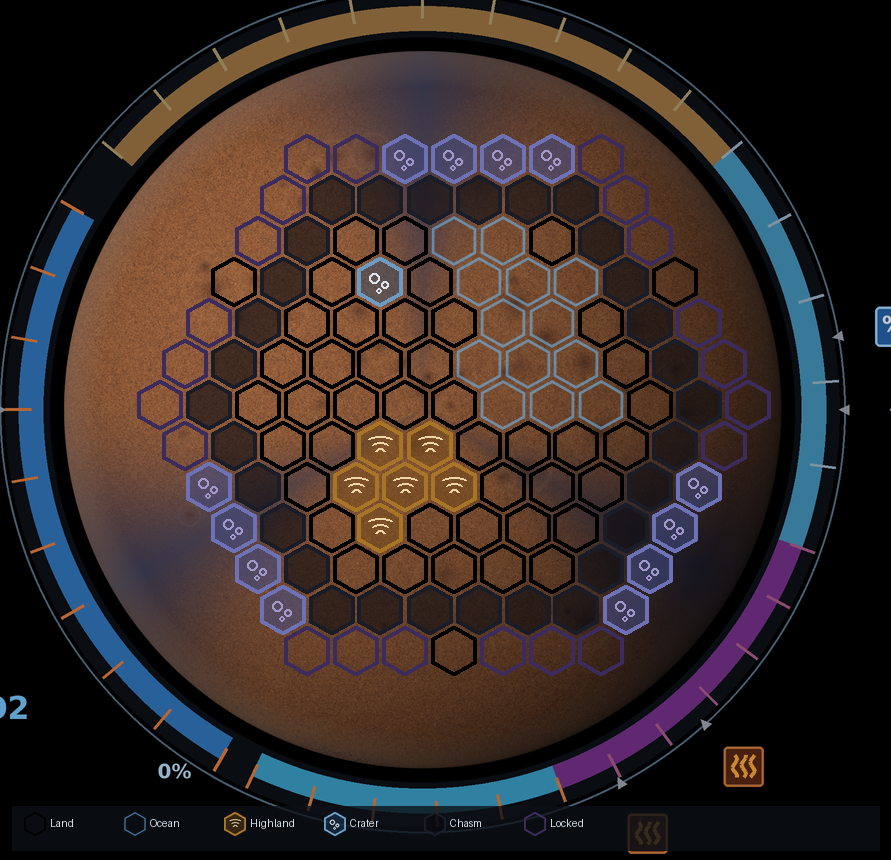
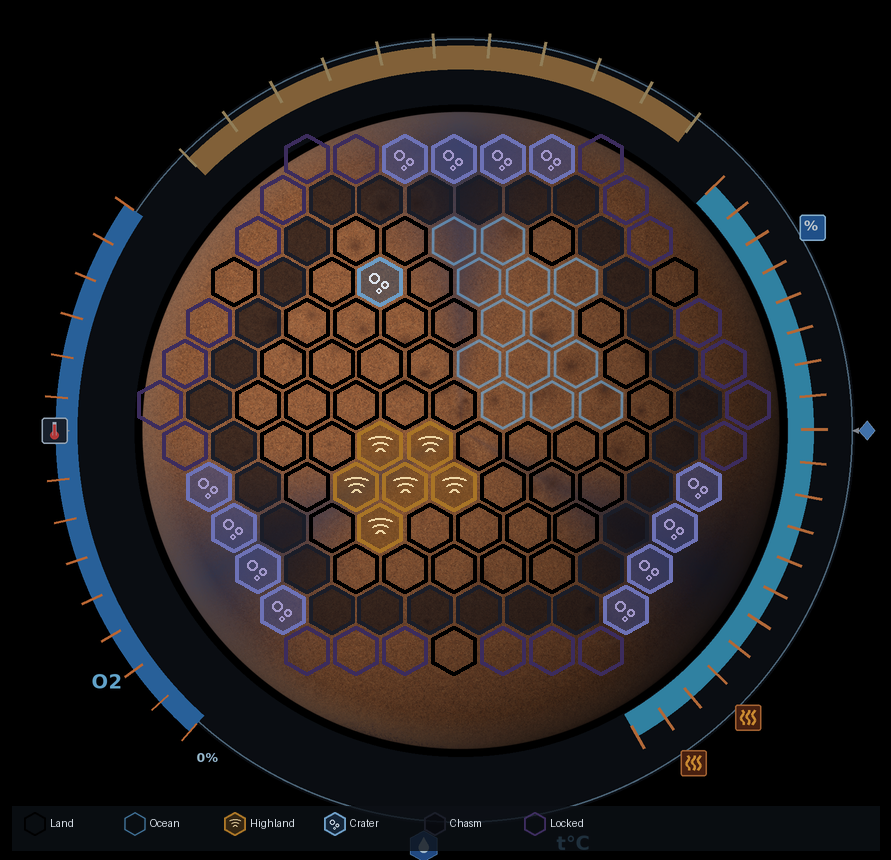
fix(consortium): calibrate generative board to hex + HTML pin frame
Lock DISC_* to the scaled mars.png silhouette (centre ~461,431 / r~320
logical) so the generative planet sits under all 127 hexes. Retarget chrome
arcs to measured O2 / temp / Venus pin angles and radii from globs.less so
HTML track overlays land on painted tracks. Hex CSS/JSON unchanged.

diff --git a/tools/consortium-art/_board_chrome.py b/tools/consortium-art/_board_chrome.py
@@ -1,15 +1,37 @@
 """
 Crisp Consortium board chrome (tracks, labels, icons).
 
-Drawn at the output pixel size so O2 / t°C / arcs are sharp — the soft
-baked-in chrome from 620×600 mars.png is the main blur source.
-Hex / CSS coordinates are unchanged; this only paints under them.
+Arc angles and radii are calibrated to Tharsis HTML overlays in globs.less
+(scaled onto the Consortium board). Planet centre/radius come from the
+caller — they must match the REF silhouette so pins land on painted tracks.
 """
 
 from __future__ import annotations
 
 import math
-from PIL import Image, ImageDraw, ImageFont
+from PIL import Image, ImageChops, ImageDraw, ImageFont
+
+# Logical calibration (891×860). Ratios scale with planet_r.
+# Angles are PIL/screen: 0° = east, increasing CCW with y-down.
+_CAL_PLANET_R = 320.0
+_TRACKS = {
+    # O2 pins ~132–214° at r≈415 (slightly outside painted outer — track under pins).
+    'oxygen': {
+        'start': 132.0, 'end': 214.0, 'r_mid': 405.0, 'half': 11.0,
+        'segments': 14, 'fill': (50, 120, 190, 255), 'tick': (255, 140, 70, 230),
+    },
+    # Venus / top sandy track.
+    'venus': {
+        'start': 225.0, 'end': 307.0, 'r_mid': 385.0, 'half': 12.0,
+        'segments': 10, 'fill': (160, 120, 70, 255), 'tick': (230, 200, 140, 200),
+    },
+    # Temperature pins ~316→60° (unwrap to 420) at r≈353 — closer to planet.
+    'temperature': {
+        'start': 316.0, 'end': 420.0, 'r_mid': 353.0, 'half': 13.0,
+        'segments': 19, 'fill': (60, 160, 200, 255), 'tick': (255, 150, 80, 220),
+    },
+}
+_OUTER_R = 392.0
 
 
 def _font(size: int) -> ImageFont.FreeTypeFont | ImageFont.ImageFont:
@@ -30,23 +52,19 @@ def _arc_bbox(cx: float, cy: float, r: float):
 
 
 def _polar(cx: float, cy: float, r: float, deg: float):
-    # Screen degrees: 0 = east, CCW (PIL arcs use this).
     rad = math.radians(deg)
     return cx + r * math.cos(rad), cy + r * math.sin(rad)
 
 
 def _draw_segmented_arc(draw: ImageDraw.ImageDraw, cx, cy, r_outer, r_inner,
                         start_deg, end_deg, fill, tick_rgb, segments: int):
-    """Annular arc wedge approximated as thick arc + ticks."""
-    # PIL arc uses 0° at 3 o'clock, increasing counter-clockwise.
+    """Annular arc. end_deg may be >360 to wrap past east."""
     width = max(1, int(round(r_outer - r_inner)))
     r_mid = (r_outer + r_inner) / 2.0
+    # PIL accepts end > 360.
     draw.arc(_arc_bbox(cx, cy, r_mid), start=start_deg, end=end_deg,
              fill=fill, width=width)
-    # Tick marks along the outer edge.
-    span = (end_deg - start_deg) % 360
-    if span == 0:
-        span = 360
+    span = end_deg - start_deg
     for i in range(segments + 1):
         a = start_deg + span * i / segments
         x0, y0 = _polar(cx, cy, r_inner + 1, a)
@@ -55,11 +73,11 @@ def _draw_segmented_arc(draw: ImageDraw.ImageDraw, cx, cy, r_outer, r_inner,
 
 
 def _hexagon(cx, cy, r):
-    pts = []
-    for i in range(6):
-        a = math.radians(60 * i - 30)
-        pts.append((cx + r * math.cos(a), cy + r * math.sin(a)))
-    return pts
+    return [
+        (cx + r * math.cos(math.radians(60 * i - 30)),
+         cy + r * math.sin(math.radians(60 * i - 30)))
+        for i in range(6)
+    ]
 
 
 def _draw_icon_thermometer(img: Image.Image, x: int, y: int, s: int):
@@ -67,7 +85,6 @@ def _draw_icon_thermometer(img: Image.Image, x: int, y: int, s: int):
     d.rounded_rectangle([x, y, x + s, y + s], radius=s * 0.12,
                         fill=(30, 40, 55, 255), outline=(180, 200, 220, 255),
                         width=max(1, s // 16))
-    # Bulb + stem.
     cx, cy = x + s * 0.5, y + s * 0.68
     d.ellipse([cx - s * 0.16, cy - s * 0.16, cx + s * 0.16, cy + s * 0.16],
               fill=(220, 70, 70, 255))
@@ -93,9 +110,8 @@ def _draw_icon_heat(img: Image.Image, x: int, y: int, s: int):
 
 def _draw_icon_water(img: Image.Image, x: int, y: int, s: int):
     d = ImageDraw.Draw(img)
-    pts = _hexagon(x + s / 2, y + s / 2, s * 0.48)
-    d.polygon(pts, fill=(40, 90, 160, 255), outline=(140, 200, 255, 255))
-    # Droplet.
+    d.polygon(_hexagon(x + s / 2, y + s / 2, s * 0.48),
+              fill=(40, 90, 160, 255), outline=(140, 200, 255, 255))
     cx, cy = x + s * 0.5, y + s * 0.42
     d.ellipse([cx - s * 0.16, cy - s * 0.05, cx + s * 0.16, cy + s * 0.28],
               fill=(200, 230, 255, 255))
@@ -107,13 +123,9 @@ def _draw_icon_crystal(img: Image.Image, x: int, y: int, s: int):
     d = ImageDraw.Draw(img)
     cx, cy = x + s / 2, y + s / 2
     d.polygon([
-        (cx, y + s * 0.12),
-        (x + s * 0.82, cy),
-        (cx, y + s * 0.88),
-        (x + s * 0.18, cy),
+        (cx, y + s * 0.12), (x + s * 0.82, cy),
+        (cx, y + s * 0.88), (x + s * 0.18, cy),
     ], fill=(80, 140, 210, 255), outline=(200, 230, 255, 255))
-    d.line([(cx, y + s * 0.12), (cx, y + s * 0.88)],
-           fill=(180, 220, 255, 200), width=max(1, s // 18))
 
 
 def _draw_icon_percent(img: Image.Image, x: int, y: int, s: int):
@@ -121,12 +133,11 @@ def _draw_icon_percent(img: Image.Image, x: int, y: int, s: int):
     d.rounded_rectangle([x, y, x + s, y + s], radius=s * 0.12,
                         fill=(40, 100, 170, 255), outline=(160, 210, 255, 255),
                         width=max(1, s // 14))
-    font = _font(max(10, int(s * 0.55)))
-    d.text((x + s * 0.18, y + s * 0.12), '%', font=font, fill=(240, 250, 255, 255))
+    d.text((x + s * 0.18, y + s * 0.12), '%',
+           font=_font(max(10, int(s * 0.55))), fill=(240, 250, 255, 255))
 
 
 def _draw_pointer(draw: ImageDraw.ImageDraw, ring_x, ring_y, outward_deg, size):
-    """Grey triangle on the outside of the ring, tip pointing inward."""
     tip = _polar(ring_x, ring_y, size * 0.1, outward_deg + 180)
     base1 = _polar(ring_x, ring_y, size, outward_deg - 28)
     base2 = _polar(ring_x, ring_y, size, outward_deg + 28)
@@ -135,98 +146,70 @@ def _draw_pointer(draw: ImageDraw.ImageDraw, ring_x, ring_y, outward_deg, size):
 
 def draw_chrome(base: Image.Image, cx: float, cy: float, planet_r: float) -> Image.Image:
     """
-    Paint Consortium chrome onto `base` (RGBA). Returns the same image.
+    Paint chrome onto `base` (RGBA).
 
-    Geometry is relative to the planet disc so it stays locked when the
-    canvas scale changes. HTML global-number overlays still use CSS.
+    `cx, cy, planet_r` must be the calibrated REF silhouette (same space as
+    the canvas). Track geometry is scaled from the 891×860 calibration.
     """
     img = base
-    d = ImageDraw.Draw(img)
-    # Ring radii (outside the planet).
-    r0 = planet_r + planet_r * 0.035   # gap
-    r1 = planet_r + planet_r * 0.085   # inner track
-    r2 = planet_r + planet_r * 0.155   # outer track
-    r3 = planet_r + planet_r * 0.175   # hairline
+    scale = planet_r / _CAL_PLANET_R
+    outer = _OUTER_R * scale
+    gap = planet_r + 6 * scale
 
-    # Hairline outer ring.
-    d.ellipse(_arc_bbox(cx, cy, r3), outline=(120, 160, 190, 180),
-              width=max(1, int(planet_r * 0.006)))
-
-    # Dark ring plate under tracks.
+    # Dark ring plate between planet and outer chrome.
     ring = Image.new('RGBA', img.size, (0, 0, 0, 0))
     rd = ImageDraw.Draw(ring)
-    rd.ellipse(_arc_bbox(cx, cy, r2 + 2), fill=(12, 16, 22, 230))
-    rd.ellipse(_arc_bbox(cx, cy, r0 - 1), fill=(0, 0, 0, 0))
-    # Cut hole with planet+gap.
+    rd.ellipse(_arc_bbox(cx, cy, outer + 2 * scale), fill=(12, 16, 22, 235))
     mask = Image.new('L', img.size, 0)
-    ImageDraw.Draw(mask).ellipse(_arc_bbox(cx, cy, r2 + 2), fill=255)
+    ImageDraw.Draw(mask).ellipse(_arc_bbox(cx, cy, outer + 2 * scale), fill=255)
     hole = Image.new('L', img.size, 0)
-    ImageDraw.Draw(hole).ellipse(_arc_bbox(cx, cy, r0 - 1), fill=255)
-    from PIL import ImageChops
-    mask = ImageChops.subtract(mask, hole)
-    ring.putalpha(mask)
+    ImageDraw.Draw(hole).ellipse(_arc_bbox(cx, cy, gap), fill=255)
+    ring.putalpha(ImageChops.subtract(mask, hole))
     img.alpha_composite(ring)
 
     d = ImageDraw.Draw(img)
+    d.ellipse(_arc_bbox(cx, cy, outer), outline=(120, 160, 190, 200),
+              width=max(1, int(2 * scale)))
 
-    # Track arcs — angles chosen to match Tharsis chrome layout roughly.
-    # PIL: 0° = 3 o'clock, CCW.
-    # O2 track (lower-left): ~120° to ~210°
-    _draw_segmented_arc(d, cx, cy, r2, r1, 120, 210,
-                        fill=(50, 120, 190, 255), tick_rgb=(255, 140, 70, 230),
-                        segments=9)
-    # Top sandy/venus-ish track: ~220° to ~320°
-    _draw_segmented_arc(d, cx, cy, r2, r1, 220, 320,
-                        fill=(160, 120, 70, 255), tick_rgb=(230, 200, 140, 200),
-                        segments=10)
-    # Upper-right % track: ~320° to ~20°
-    _draw_segmented_arc(d, cx, cy, r2, r1, 320, 20,
-                        fill=(70, 150, 190, 255), tick_rgb=(200, 230, 255, 200),
-                        segments=5)
-    # Right purple track: ~20° to ~70°
-    _draw_segmented_arc(d, cx, cy, r2, r1, 20, 70,
-                        fill=(120, 50, 140, 255), tick_rgb=(220, 120, 180, 200),
-                        segments=6)
-    # Temperature track (lower-right): ~70° to ~115°
-    _draw_segmented_arc(d, cx, cy, r2, r1, 70, 115,
-                        fill=(60, 160, 200, 255), tick_rgb=(255, 150, 80, 220),
-                        segments=5)
+    for tr in _TRACKS.values():
+        r_mid = tr['r_mid'] * scale
+        half = tr['half'] * scale
+        _draw_segmented_arc(
+            d, cx, cy, r_mid + half, r_mid - half,
+            tr['start'], tr['end'],
+            fill=tr['fill'], tick_rgb=tr['tick'], segments=tr['segments'])
 
-    # Scale factor vs a ~251px source disc radius.
-    s = planet_r / 251.05
-    icon = max(22, int(round(28 * s)))
+    icon = max(20, int(round(26 * scale)))
+    s = scale
 
-    # Icons around the ring (outward).
-    def place(deg, drawer, radial=1.12):
-        rx, ry = _polar(cx, cy, r2 + 2, deg)
+    def place(deg, drawer, r_frac=1.0):
+        rr = outer * r_frac
+        rx, ry = _polar(cx, cy, rr, deg)
         _draw_pointer(ImageDraw.Draw(img), rx, ry, outward_deg=deg,
-                      size=max(6, int(8 * s)))
-        x, y = _polar(cx, cy, r2 * radial + icon * 0.35, deg)
+                      size=max(6, int(7 * s)))
+        x, y = _polar(cx, cy, rr + icon * 0.55, deg)
         drawer(img, int(x - icon / 2), int(y - icon / 2), icon)
 
-    place(180, _draw_icon_thermometer)   # 9 o'clock
-    place(0, _draw_icon_crystal)         # 3 o'clock
-    place(48, _draw_icon_heat)
-    place(62, _draw_icon_heat)
-    place(350, _draw_icon_percent)       # ~2 o'clock
+    # Icons near Tharsis landmark angles.
+    place(180, _draw_icon_thermometer)          # O2 side
+    place(0, _draw_icon_crystal)                # right
+    place(45, _draw_icon_heat)                  # temp low end
+    place(55, _draw_icon_heat)
+    place(330, _draw_icon_percent)              # upper-right
 
-    # Water drop at 6 o'clock — slightly larger, no duplicate pointer clutter.
-    wx, wy = _polar(cx, cy, r2 * 1.14, 90)
+    # Oceans droplet near bottom (HTML oceans counter ~ang 99°).
+    wx, wy = _polar(cx, cy, outer * 1.06, 95)
     _draw_icon_water(img, int(wx - icon * 0.65), int(wy - icon * 0.55),
                      int(icon * 1.25))
 
-    # Crisp labels.
-    font = _font(max(14, int(22 * s)))
+    font = _font(max(14, int(20 * s)))
+    small = _font(max(11, int(13 * s)))
     d = ImageDraw.Draw(img)
-    # O2
-    ox, oy = _polar(cx, cy, r2 * 1.22, 145)
-    d.text((ox - 18 * s, oy - 8 * s), 'O2', font=font, fill=(120, 200, 255, 255))
-    # 0%
-    zx, zy = _polar(cx, cy, r2 * 1.05, 125)
-    small = _font(max(11, int(14 * s)))
+    ox, oy = _polar(cx, cy, outer * 1.10, 145)
+    d.text((ox - 16 * s, oy - 8 * s), 'O2', font=font, fill=(120, 200, 255, 255))
+    zx, zy = _polar(cx, cy, _TRACKS['oxygen']['r_mid'] * scale * 1.02, 128)
     d.text((zx - 10 * s, zy - 6 * s), '0%', font=small, fill=(180, 220, 255, 255))
-    # t°C
-    tx, ty = _polar(cx, cy, r2 * 1.22, 100)
-    d.text((tx - 16 * s, ty - 8 * s), 't°C', font=font, fill=(120, 200, 255, 255))
+    tx, ty = _polar(cx, cy, outer * 1.08, 75)
+    d.text((tx - 14 * s, ty - 8 * s), 't°C', font=font, fill=(120, 200, 255, 255))
 
     return img

diff --git a/tools/consortium-art/build_board.py b/tools/consortium-art/build_board.py
@@ -234,8 +234,10 @@ BOARD_W, BOARD_H = 891, 860
 ART_SCALE = 2
 ART_W, ART_H = BOARD_W * ART_SCALE, BOARD_H * ART_SCALE
 
-# Fitted to assets/board/mars.png alpha (planet disc centre/radius at 620×600).
-DISC_CX0, DISC_CY0, DISC_R0 = 294.0, 286.0, 251.05
+# Calibrated to scaled mars.png silhouette + hex coverage (620×600 space).
+# Logical (891×860): centre ≈ (461, 431), planet_r ≈ 320.
+# Do not drift these — HTML O2/temp pins and hex field assume this frame.
+DISC_CX0, DISC_CY0, DISC_R0 = 320.75, 300.47, 222.96
 
 
 def build_mars():

diff --git a/docs/consortium/05-board.md b/docs/consortium/05-board.md
@@ -14,9 +14,11 @@ Base: `main` after iridium merge (`24b0137cf`)
 | `src/styles/board_positions.less` | 127 CSS margin rules (`.board-space-001` …) |
 | `src/server/boards/consortiumSpaces.json` | 127 space records |
 
-Confirmed: **127 spaces**, hex field **634×542**, field origin **137, 134**
-(centred on the planet disc). Massif (default) types: land 72 / crater 12 /
-chasm 24 / ocean 13 / highland 6.
+Confirmed: **127 spaces**, hex field **634×542**, field origin **137, 134**.
+Planet paint is locked to calibrated disc centre/radius (see `DISC_*` in
+`build_board.py`) so generative art stays under the hexes and HTML track
+pins. Massif (default) types: land 72 / crater 12 / chasm 24 / ocean 13 /
+highland 6.
 
 Three terrain variants share this geometry — see `docs/consortium/19-maps.md`
 (Massif / Rift Basin / Archipelago).
